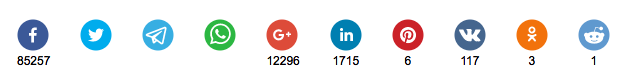
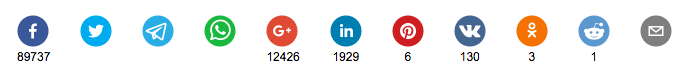
update readme and example.png

diff --git a/README.md b/README.md
@@ -79,6 +79,7 @@ const {
   VKShareButton,
   OKShareButton,
   RedditShareButton,
+  EmailShareButton,
 } = ShareButtons;
 ```
 
@@ -97,6 +98,7 @@ const {
 |VKShareButton|-|__`title`__: Title of the shared page (string)<br/>__`description`__: Description of the shared page (string)<br/>__`image`__: An absolute link to the image that will be shared (string)|
 |OKShareButton|-|__`title`__: Title of the shared page (string)<br/>__`description`__: Description of the shared page (string)<br/>__`image`__: An absolute link to the image that will be shared (string)|
 |RedditShareButton|-|__`title`__: Title of the shared page (string)|
+|EmailShareButton|-|__`subject`__: Title of the shared page (string)<br/>__`body`__: Body of the email (string), defaults to shared url.|
 
 ### Share counts
 
@@ -146,6 +148,7 @@ const PinterestIcon = generateShareIcon('pinterest');
 const VKIcon = generateShareIcon('vk');
 const OKIcon = generateShareIcon('ok');
 const RedditIcon = generateShareIcon('reddit');
+const EmailIcon = generateShareIcon('email');
 ```
 
 Props:
